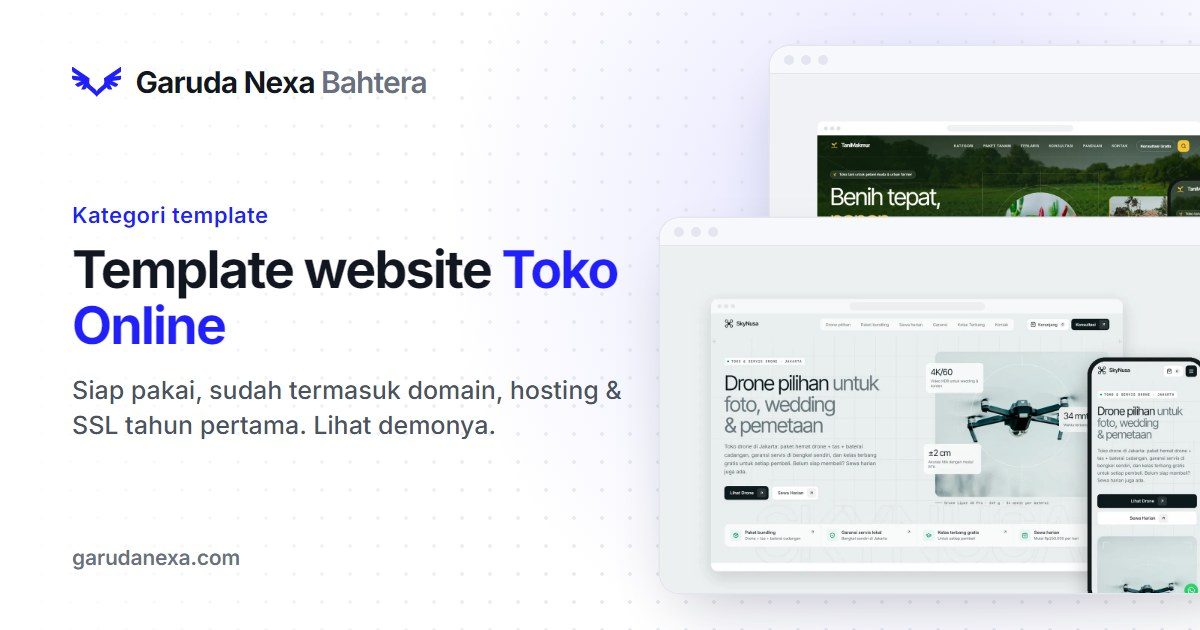
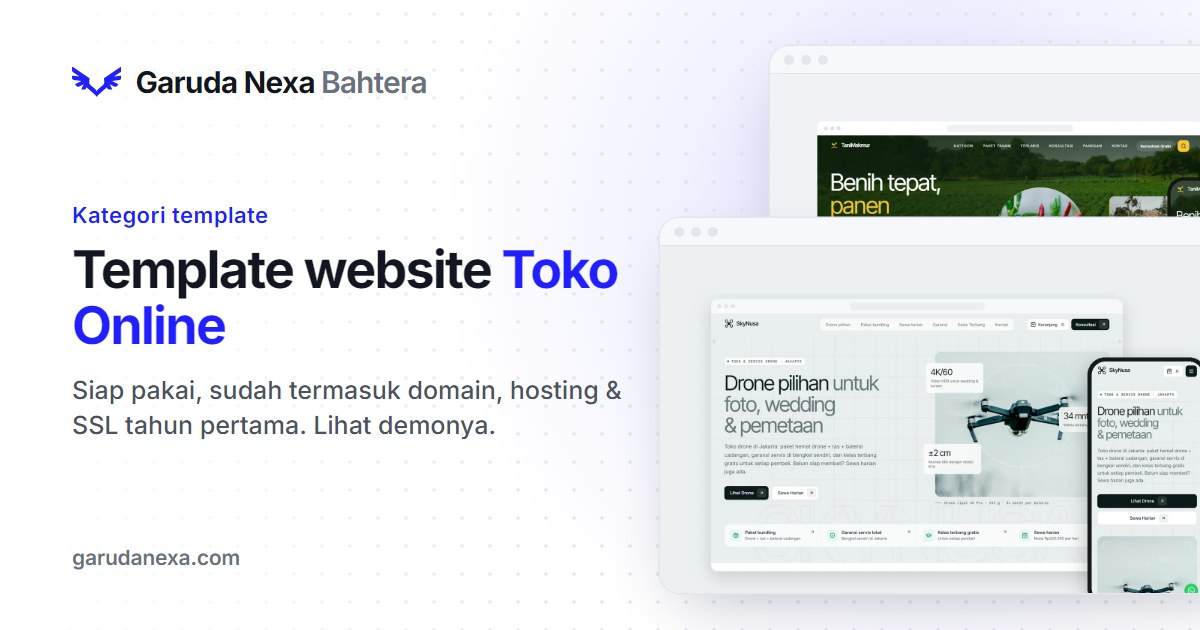
feat(seo): OG cards for Madani, Cakrawala and the Sekolah & pendidikan category
New cards: template-madani, template-cakrawala and kategori-sekolah-pendidikan
(100–121 KB, under the 150 KB budget). The catalog card is re-rendered with
the school templates. The toko-online and tanimakmur cards follow TaniMakmur's
updated previews. Data comes from the local API.

Changed region(s): [[0.6783, 0.2111, 1.0, 0.3619], [0.9867, 0.3317, 1.0, 0.3619]]

diff --git a/src/seo/ogCards.generated.ts b/src/seo/ogCards.generated.ts
@@ -10,16 +10,19 @@ export const OG_CARDS: readonly string[] = [
   'kategori-fintech-startup',
   'kategori-kecantikan-klinik',
   'kategori-olahraga-komunitas',
+  'kategori-sekolah-pendidikan',
   'kategori-toko-online',
   'kategori-yoga-wellness',
   'kontak',
   'panduan',
   'template-arena-club',
   'template-aura-studio',
+  'template-cakrawala',
   'template-corporate-nexa',
   'template-finova',
   'template-gadgetku',
   'template-glowstory',
+  'template-madani',
   'template-puncakgear',
   'template-serenity',
   'template-skynusa',
